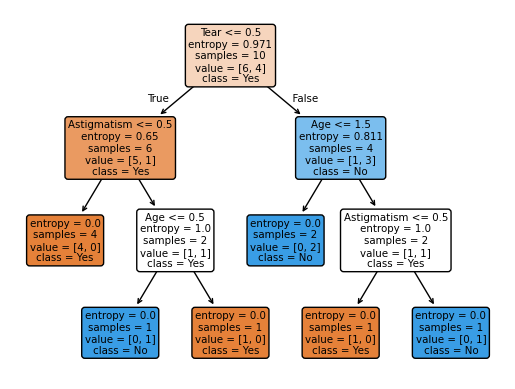
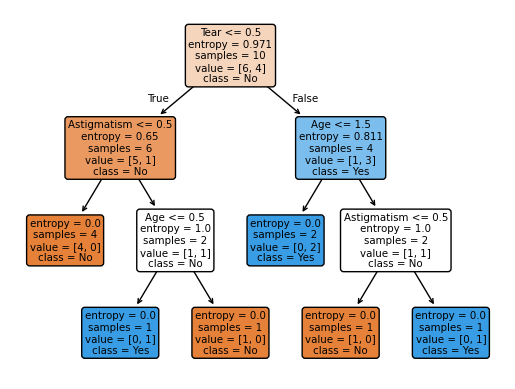
Fixed Class Assignment Error

diff --git a/decision_tree.py b/decision_tree.py
@@ -3,7 +3,7 @@
 # FILENAME: decision_tree.py
 # SPECIFICATION: reads csv and outputs a decision tree
 # FOR: CS 4210- Assignment #1
-# TIME SPENT: ~ 4-5 hours
+# TIME SPENT: ~ 5 hrs
 #-----------------------------------------------------------*/
 
 #IMPORTANT NOTE: DO NOT USE ANY ADVANCED PYTHON LIBRARY TO COMPLETE THIS CODE SUCH AS numpy OR pandas. You have to work here only with standard
@@ -56,5 +56,5 @@ clf = tree.DecisionTreeClassifier(criterion='entropy')
 clf = clf.fit(X, Y)
 
 #plotting the decision tree
-tree.plot_tree(clf, feature_names=['Age', 'Spectacle', 'Astigmatism', 'Tear'], class_names=['Yes','No'], filled=True, rounded=True)
+tree.plot_tree(clf, feature_names=['Age', 'Spectacle', 'Astigmatism', 'Tear'], class_names=['No','Yes'], filled=True, rounded=True)
 plt.show()

diff --git a/README.md b/README.md
@@ -18,12 +18,15 @@ What I've done is essentially map all of the values of each feature to a number.
 
 ## Colors and Directionals
 
-Something to note, if the color is of a shade of orange, it is the "Yes", or "True", direction of the parent boxes decision question. As for shades of blue, it is the "No", or "False", direction.
+Something to note, if the color is of a shade of orange, it is the "Yes" class of the parent boxes decision question. As for shades of blue, it is the "No" class. The shade is to show how pure the decision is for being in that class.  
 
-For example, if the parent question is "Tear <= 0.5" the the orange shaded box that extends from it is the "Yes" answer to that question. The blue shaded box that extends from it is the "No" answer to that question.  
+Now for directions, the boxes that extend to the left are the "True" answers to the parent question. Boxes that extend to the right are the "False" answers to the previous questions. 
 
-In essence: Orange = True, Blue = False
- 
+For example, if the parent question is "Tear <= 0.5", the box to the left is the box that says the previous condition is true, that Tear Production Rate, according to the encoding, is less than 0.5 meaning "Reduced". The box to the right is saying the previous condition is false and that Tear Production Rate is greater than 0.5, or "Normal".   
+
+In essence: Left = True, Right = False  
 
 ***
-With all of these in mind, when examining the outputted decision tree, it will make understanding the decision tree and how the decisions are made significantly easier. 
+With all of these in mind, when examining the outputted decision tree, it will make understanding the decision tree and how the decisions are made significantly easier.  
+  
+![output plot from the decision tree code](/decisionTree_output.png)
